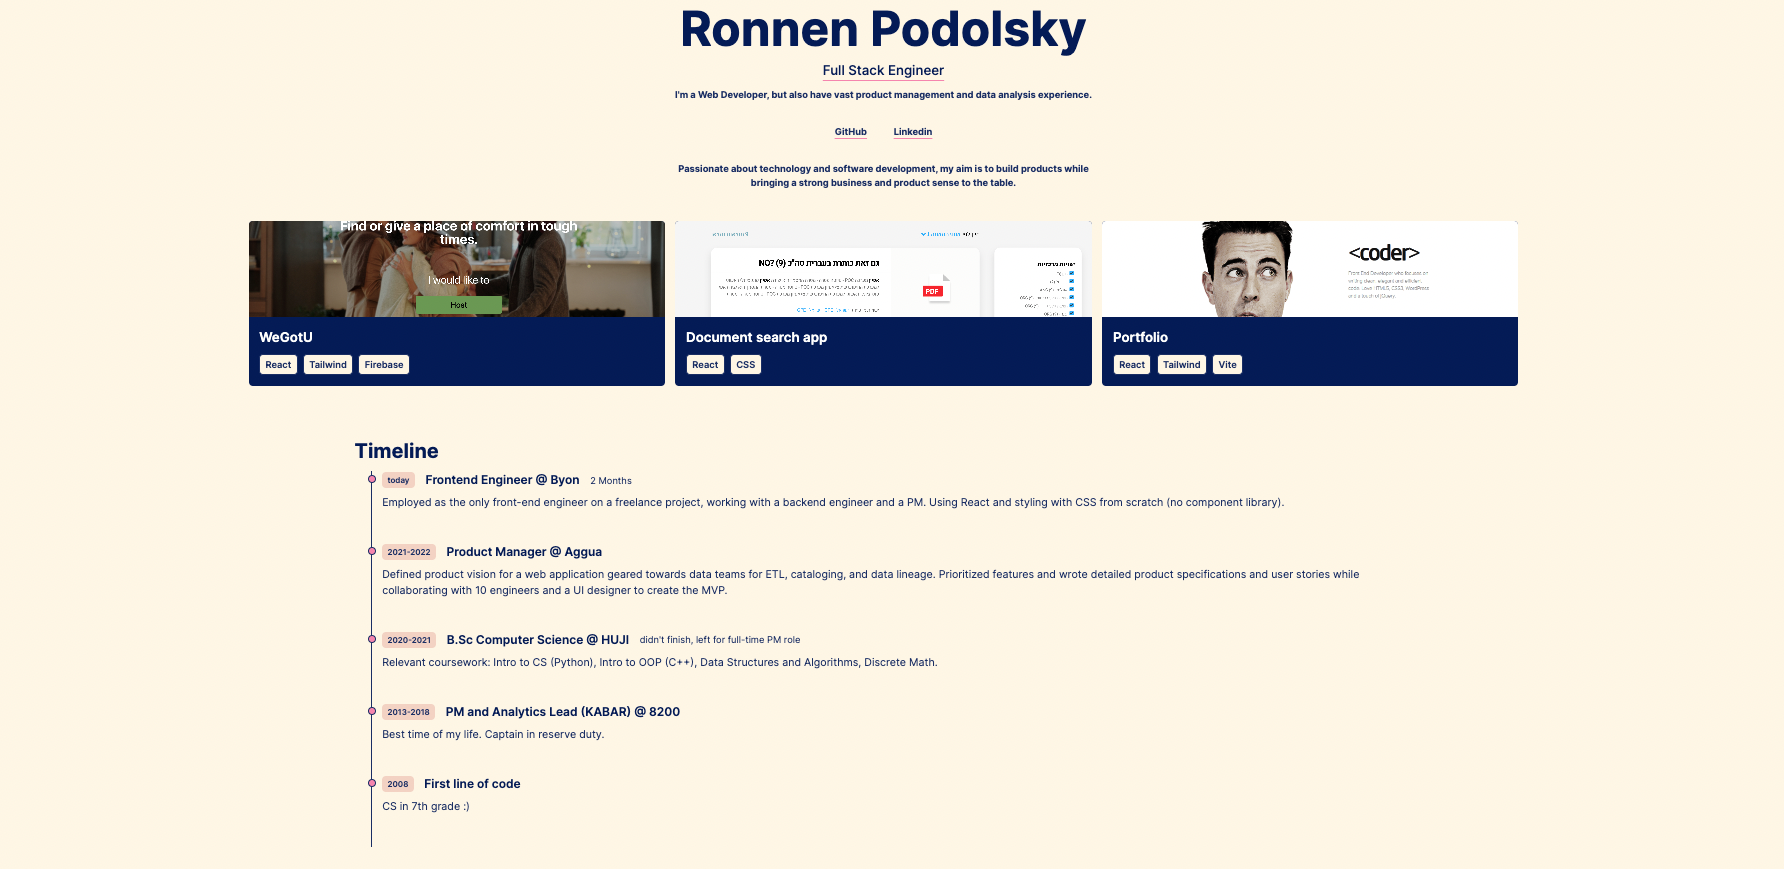
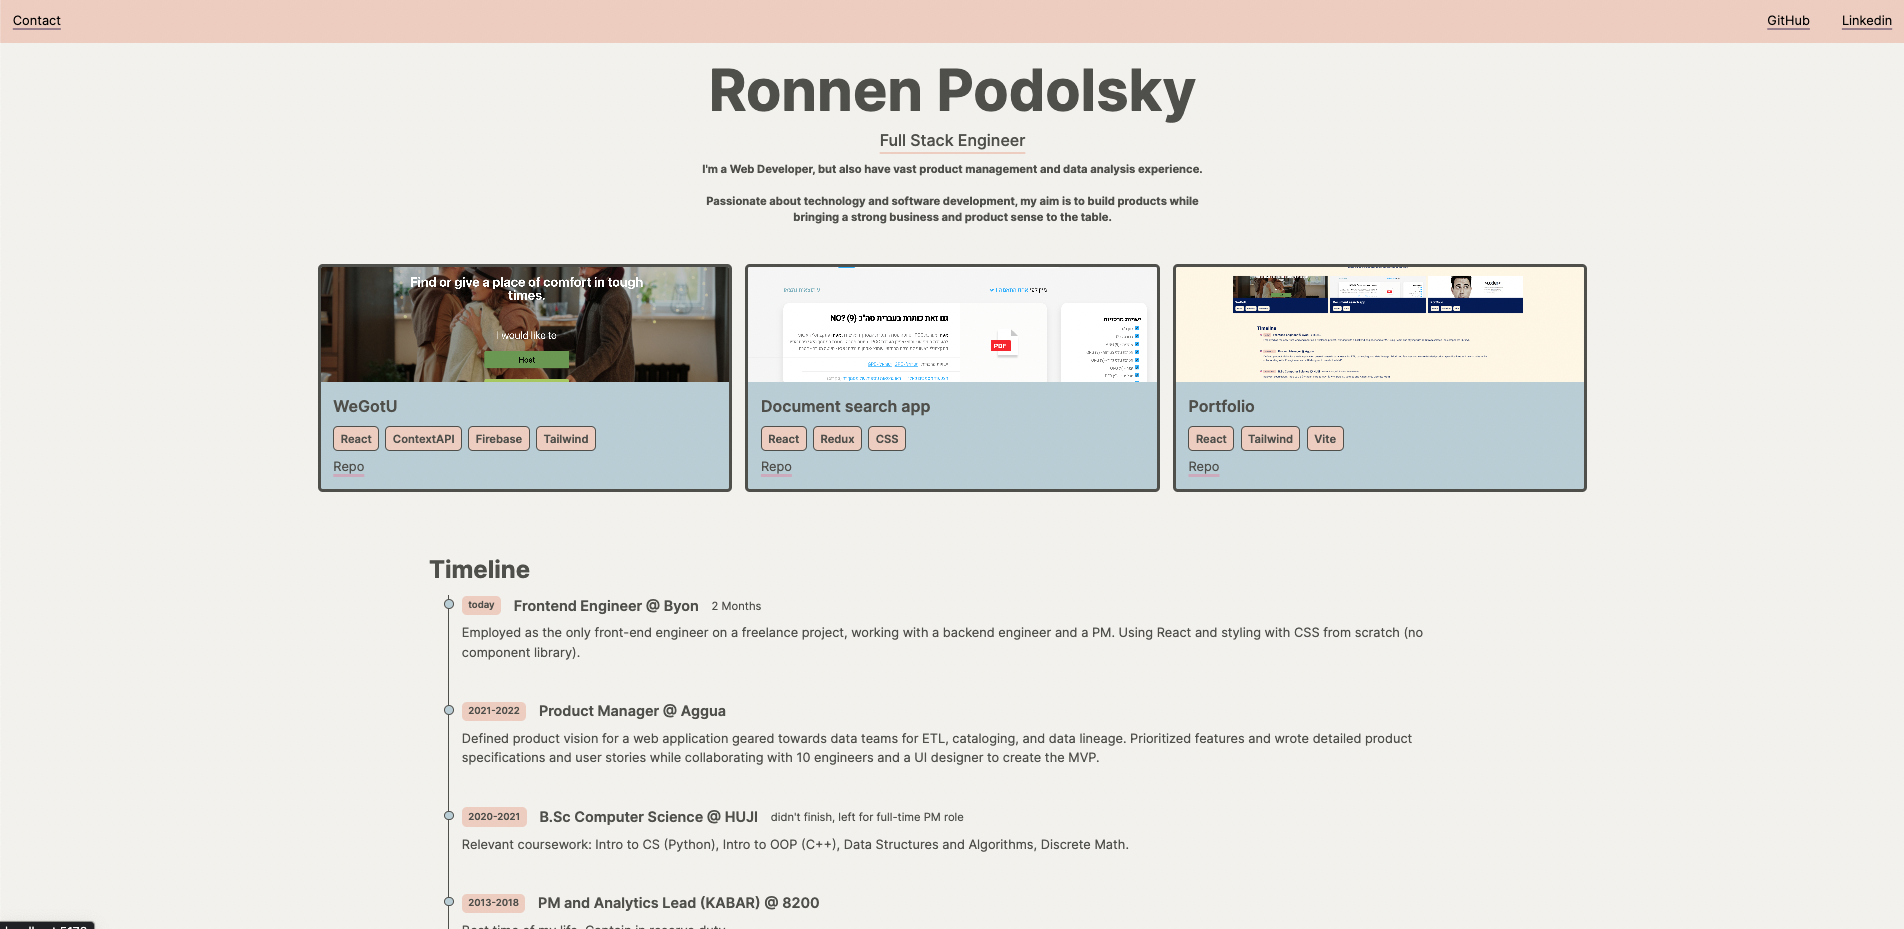
color change

diff --git a/src/components/PortfolioItem.jsx b/src/components/PortfolioItem.jsx
@@ -1,4 +1,4 @@
-const PortfolioItem = ({ title, imageUrl, stack, link }) => {
+const PortfolioItem = ({ title, imageUrl, stack, link, repo }) => {
   return (
     <a
       href={link}
@@ -15,16 +15,26 @@ const PortfolioItem = ({ title, imageUrl, stack, link }) => {
         <h3 className='text-lg md:text-xl mb-2 md:mb-3 font-semibold text-card-headline'>
           {title}
         </h3>
-        <p className='flex flex-wrap gap-2 flex-row items-center justify-start md:text-sm'>
+        <p className='mb-2 flex flex-wrap gap-2 flex-row items-center justify-start md:text-sm'>
           {stack.map((item) => (
             <span
               key={item}
-              className='inline-block px-2 py-1 font-semibold border-2 border-paragraph-1000 rounded-md text-paragraph hover:bg-button bg-card-tag-bg'
+              className='text-xs md:text-sm inline-block px-2 py-1 font-semibold border-2 border-paragraph-1000 rounded-md text-paragraph hover:bg-button bg-card-tag-bg hover:cursor-default'
             >
               {item}
             </span>
           ))}
         </p>
+
+        {repo && (
+          <a
+            className='text-card-text underline underline-offset-4 decoration-button decoration-4 hover:bg-button'
+            target={'_blank'}
+            href={repo}
+          >
+            Repo
+          </a>
+        )}
       </div>
     </a>
   );

diff --git a/src/components/Navbar.jsx b/src/components/Navbar.jsx
@@ -3,7 +3,7 @@ const Navbar = () => {
     <div className='bg-main flex justify-end items-center gap-2'>
       <a
         href='#contact'
-        className='mr-auto underline underline-offset-4 decoration-2 decoration-button p-4 hover:border-button hover:bg-button '
+        className='mr-auto underline underline-offset-4 decoration-2 decoration-nav-highligt p-4 hover:bg-nav-highligt '
       >
         Contact
       </a>
@@ -11,7 +11,7 @@ const Navbar = () => {
         href='https://github.com/RonnenPodolsky/'
         target='_blank'
         rel='noreferer noopener'
-        className=' underline underline-offset-4 decoration-2 decoration-button p-4 hover:border-button hover:bg-button '
+        className=' underline underline-offset-4 decoration-2 decoration-nav-highligt p-4 hover:bg-nav-highligt '
       >
         GitHub
       </a>
@@ -19,7 +19,7 @@ const Navbar = () => {
         href='https://www.linkedin.com/in/ronnen-podolsky-806905172/'
         target='_blank'
         rel='noreferer noopener'
-        className=' underline underline-offset-4 decoration-2 decoration-button p-4 hover:border-button hover:bg-button'
+        className=' underline underline-offset-4 decoration-2 decoration-nav-highligt p-4  hover:bg-nav-highligt'
       >
         Linkedin
       </a>

diff --git a/src/components/TimelineItem.jsx b/src/components/TimelineItem.jsx
@@ -2,15 +2,15 @@ function TimelineItem({ year, title, duration, details }) {
   return (
     <ol className='mx-16  flex flex-col md:flex-row relative border-l border-paragraph  '>
       <li className='mb-10 ml-4'>
-        <div className='absolute w-3 h-3 bg-button rounded-full mt-1.5 -left-1.5 border border-paragraph' />
+        <div className='absolute w-3 h-3 bg-card-bg rounded-full mt-1.5 -left-1.5 border border-paragraph' />
         <div className='flex flex-werap gap-4 flex-row items-center justify-start text-xs md:text-sm'>
-          <span className='text-paragraph bg-year-bg text-xs inline-block px-2 py-1 font-semibold text-white bg-stone-900 rounded-md'>
+          <span className='text-paragraph bg-year-bg text-xs inline-block px-2 py-1 font-semibold  bg-stone-900 rounded-md'>
             {year}
           </span>
           <h3 className='text-headline text-sm md:text-base lg:text-lg font-semibold text-stone-900'>
             {title}
           </h3>
-          <div className='text-paragraph my-1 text-xs md:text-sm font-normal leading-none text-stone-400 '>
+          <div className='text-paragraph my-1 w-48 text-xs md:text-sm font-normal leading-none text-stone-400 '>
             {duration}
           </div>
         </div>

diff --git a/src/data/portfolio.js b/src/data/portfolio.js
@@ -3,18 +3,21 @@ export default [
         title: 'WeGotU',
         imgUrl: '/we-got-u.png',
         stack: ['React', 'ContextAPI', 'Firebase', 'Tailwind'],
-        link: 'https://we-got-u-3.vercel.app/'
+        link: 'https://we-got-u-3.vercel.app/',
+        repo: 'https://github.com/nikDRlas/Masterschool-Social-Issue-Project'
     },
     {
-        title: 'Document search app',
+        title: 'Document search app (freelance)',
         imgUrl: '/hani.png',
         stack: ['React', 'Redux', 'CSS'],
-        link: ''
+        link: '',
+        repo: null
     },
     {
         title: 'Portfolio',
         imgUrl: '/portfolio.png',
         stack: ['React', 'Tailwind', 'Vite'],
-        link: 'https://ronnenpodolsky.com'
+        link: 'https://ronnenpodolsky.com',
+        repo: 'https://github.com/RonnenPodolsky/minimal_portfolio'
     }
 ]

diff --git a/src/components/Intro.jsx b/src/components/Intro.jsx
@@ -4,10 +4,10 @@ const Intro = () => {
       <h1 className='text-4xl md:text-7xl mb-1 md:mb-3 font-bold text-headline'>
         Ronnen Podolsky
       </h1>
-      <p className='text-headline text-base md:text-xl mb-3 font-medium underline underline-offset-8 decoration-2 decoration-button '>
+      <p className='text-headline text-base md:text-xl mb-3 font-medium underline underline-offset-8 decoration-2 decoration-card-tag-bg '>
         Full Stack Engineer
       </p>
-      <p className='text-sm max-w-[670px] mb-6 font-bold text-paragraph'>
+      <p className='px-2 text-sm max-w-[670px] mb-6 font-bold text-paragraph'>
         I'm a Web Developer, but also have vast product management and data
         analysis experience.
         <br />

diff --git a/src/components/Contact.jsx b/src/components/Contact.jsx
@@ -34,7 +34,7 @@ const Contact = () => {
           ></textarea>
           <button
             type='submit'
-            className='text-center text-[#FFFFFF] inline-block px-8 py-3 w-max text-base text-white bg-paragraph hover:bg-button rounded-md shadow hover:shadow-2xl'
+            className='text-center inline-block px-8 py-3 w-max text-base text-white bg-paragraph hover:bg-nav-highligt rounded-md shadow hover:shadow-2xl'
           >
             Reach out
           </button>

diff --git a/src/components/Portfolio.jsx b/src/components/Portfolio.jsx
@@ -12,6 +12,7 @@ const Portfolio = () => {
             title={project.title}
             link={project.link}
             stack={project.stack}
+            repo={project.repo}
           />
         ))}
       </div>
